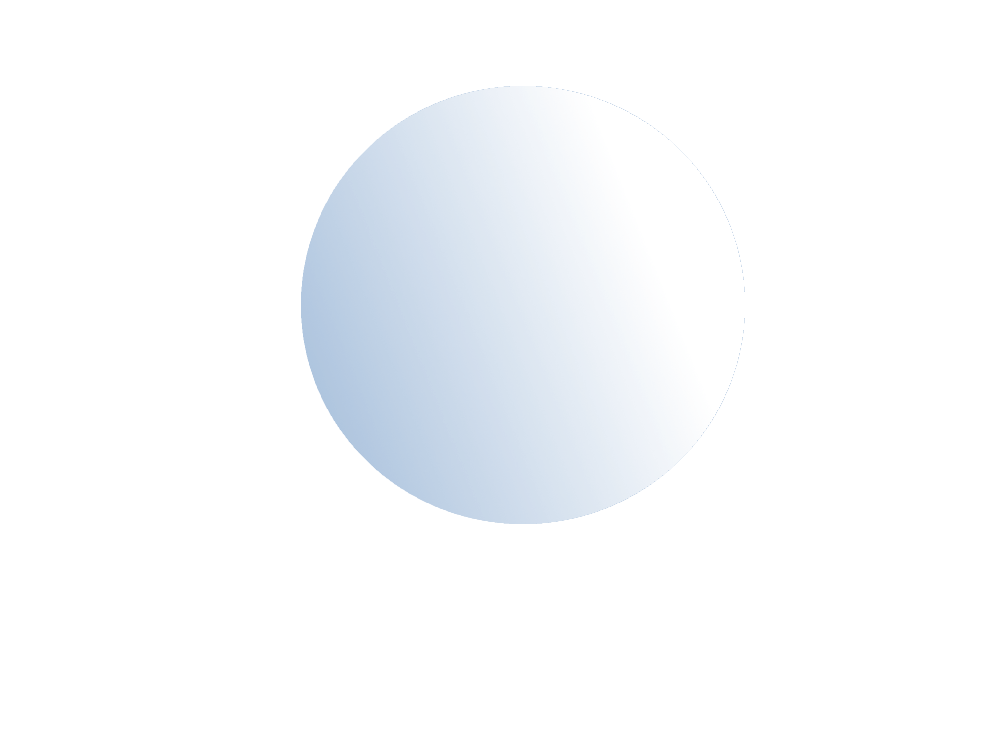
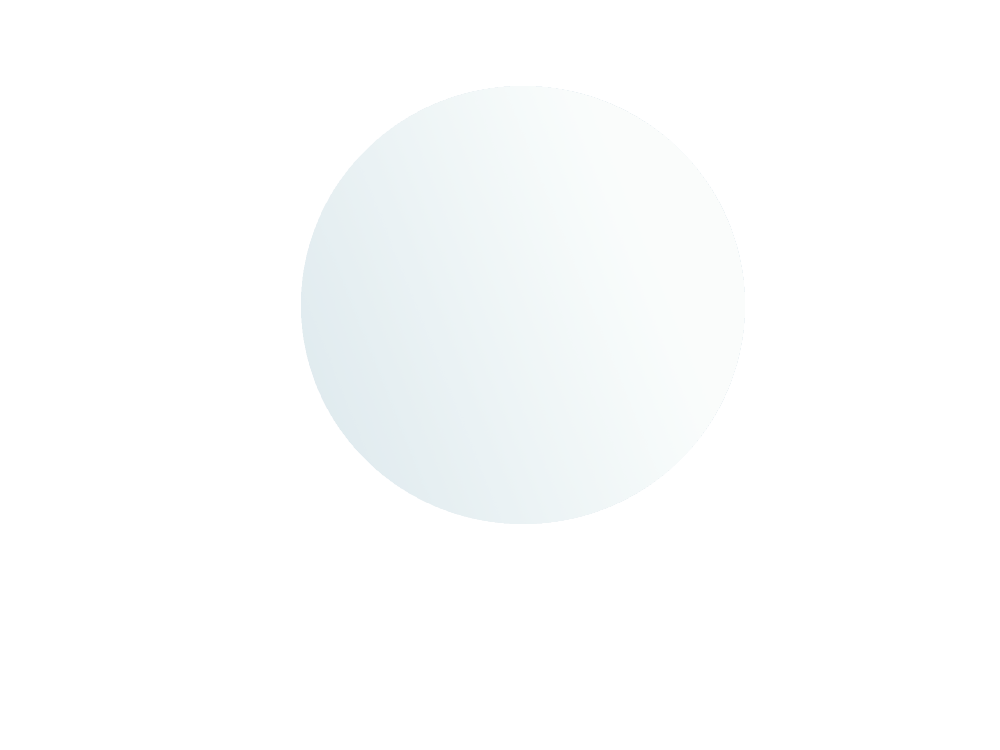
css canges

Changed region(s): [[0.279, 0.1533, 0.558, 0.7053]]

diff --git a/src/index.html b/src/index.html
@@ -39,9 +39,9 @@
         
             <a class = "lol"><font style = "font-weight: bold;" id = "navtext"><p>&nbsp;Account&nbsp;</p></font></a><p class = "divider">|</p>
             <a class = "lol"><font style = "font-weight: bold;" id = "navtext"><p>&nbsp;Settings&nbsp;</p></font></a> <p class = "divider">|</p>
-            <a class = "lol"><font style = "font-weight: bold;" id = "navtext"><p>&nbsp;Features&nbsp;</p></font></a><p class = "divider">|</p>  
-            <a class = "lol"><font style = "font-weight: bold;" id = "navtext"><p>&nbsp;Info&nbsp;</p>
-
+            <a class = "lol"><font style = "font-weight: bold;" id = "navtext"><p>&nbsp;Features&nbsp;</p></font></a>  <p class = "divider">|</p>
+            <a class = "lol"><font style = "font-weight: bold;" id = "navtext"><p>&nbsp;Info&nbsp;</p></font></a> <p class = "divider">|</p>
+            <a class = "lol"><font style = "font-weight: bold;" id = "navtext"><p>&nbsp;Cookies&nbsp;</p></font></a>
         </span>
  
         <br><br>

diff --git a/src/css/styles.css b/src/css/styles.css
@@ -70,7 +70,7 @@ body{
 
 .lol{
   
-  color:  rgb(186, 210, 232);
+  color:  rgb(209, 225, 240);
   transition: 0.5s;
   font-size:15px;
   /*
